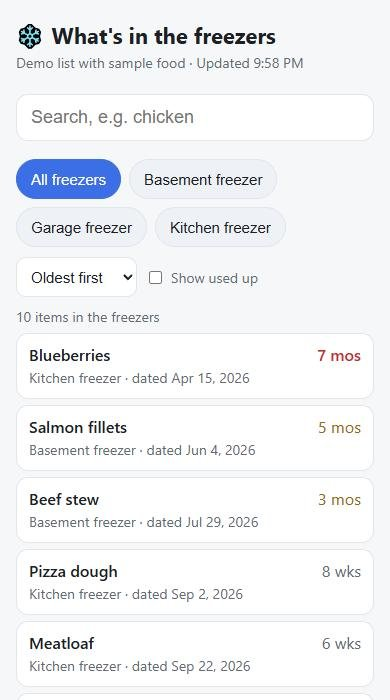
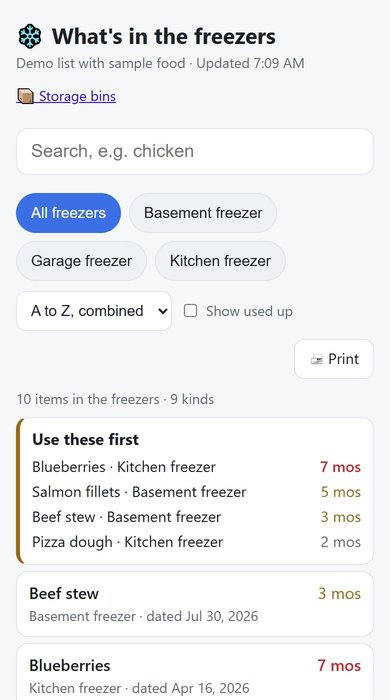
How-to page: A-to-Z family list, Print, Move without scanning, TJ/date names; new list screenshot

diff --git a/public/how.html b/public/how.html
@@ -58,12 +58,12 @@
     <div class="step"><b><span class="num">1</span>Label it</b>Type "Meatloaf", print a label. The QR code holds the name, the date and a number that makes each pack unique.</div>
     <div class="step"><b><span class="num">2</span>Scan it in</b>At the freezer, scan the freezer's own label, then the food. Beep: it's on the list.</div>
     <div class="step"><b><span class="num">3</span>Scan it out</b>Scan the TAKE OUT label, then the food. It moves to "used up".</div>
-    <div class="step"><b><span class="num">4</span>Look it up</b>Anyone with the family link searches, sorts oldest-first, or picks one freezer.</div>
+    <div class="step"><b><span class="num">4</span>Look it up</b>The family link lists every food A to Z with how many packs and where, flags the oldest few (two months or more) under "Use these first", and prints it for the fridge.</div>
   </div>
   <p><b>Storage bins too.</b> Make bin labels ("Christmas" &times; 5 gives Christmas 1 to 5, or carries on from the last Christmas bin; printed big), stick one on each bin, then scan a bin and photograph what's inside. Add a few words too. Later, scan any bin, or search the words ("lights"), to see inside without opening it.</p>
 
   <div class="shots">
-    <figure><img src="img/list.jpg" alt="The family list on a phone, sorted oldest first, with freezer buttons" loading="lazy"><figcaption>The family list: search, oldest first, one freezer at a time.</figcaption></figure>
+    <figure><img src="img/list.jpg" alt="The family list on a phone: foods A to Z with a Use these first box of the oldest, freezer buttons and a Print button" loading="lazy"><figcaption>The family list: A to Z, oldest on top, one tap to print.</figcaption></figure>
     <figure><img src="img/scan.jpg" alt="The scanning page after scanning a pack of chicken thighs into the garage freezer" loading="lazy"><figcaption>The scanning page, right after a scan.</figcaption></figure>
   </div>
   <figure style="margin-top:14px"><img src="img/label.jpg" alt="A printed label: a QR code beside the words Grandma's chicken noodle soup, the date and the label number" loading="lazy"><figcaption>A label. The words are for people; the QR code is for the scanner.</figcaption></figure>
@@ -91,6 +91,9 @@
   <div class="note">Label printer from a computer: choose the Brother printer, paper size 29 mm × 90 mm, scale 100%. Bluetooth scanner: put it in keyboard (HID) mode and pair it with the phone; for the Tera, scan "Bluetooth HID" then "Pairing" from its manual, or hold the trigger for 8 seconds.</div>
 
   <h2>Questions</h2>
+  <details><summary>I moved food to another freezer without scanning it. Now what?</summary><p>On the scanning page, under "What's where", tap <b>Move food without scanning</b>. Tick the foods (all their packs move), pick the freezer, tap Move. Undo puts them back if you picked wrong.</p></details>
+  <details><summary>Can I print the list?</summary><p>Yes. On the family list tap <b>Print</b>: A to Z (a page for most freezers), with how many of each, which freezer and how old the oldest pack is. Pick a freezer first to print just that one.</p></details>
+  <details><summary>I labelled something "TJ Waffles 11-2-26". Does that sort under T?</summary><p>No. The family list leaves off a "TJ" / "Trader Joe's" in front and a date typed at the end, so it's listed as Waffles, and packs of the same food are counted together. The label itself doesn't change. For new labels, just type the food; the label adds the date.</p></details>
   <details><summary>Who can see my list?</summary><p>Only people with one of your two links. The family link can only look; the scanning link can change the list, so share only the family link. The list pages tell search engines to stay away.</p></details>
   <details><summary>Two packs of the same thing?</summary><p>Each label gets its own number, so seven packs of meatloaf are seven separate entries. Take one out and six are left.</p></details>
   <details><summary>Do I have to scan the freezer label every time?</summary><p>Only when you switch freezers. If you forget, food still gets saved; it just isn't sorted into a freezer.</p></details>
